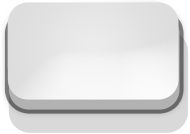
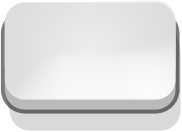
Improved key images. Added submit key

diff --git a/Resources/ui/windows/NewNumberWindow.js b/Resources/ui/windows/NewNumberWindow.js
@@ -72,7 +72,7 @@ function NewNumberWindow(parentWindow) {
 		//top += 50;
 		if ((i + 1) % 3 === 0) {
 			top += 63;
-			left = 15;
+			left = 16;
 		} else {
 			left += 100;
 		}
@@ -82,7 +82,7 @@ function NewNumberWindow(parentWindow) {
 	// self.add(numPadButton);
 		
 	//now put the 0 in
-	numPadButton = new NumPadButton(0, 16 + 97, top, self);
+	numPadButton = new NumPadButton(0, 116, top, self);
 	numPadButton.addEventListener('touchend', function(e) {
 		appendDigit(0);
 	});
@@ -90,10 +90,10 @@ function NewNumberWindow(parentWindow) {
 	
 	//Add Backspace button, next to the 0
 	var backspaceButton = Ti.UI.createButton({
-		width: 95,
-		height: 55,
+		width: 91,
+		height: 66,
 		top: top,
-		left: 16 + 97 + 96,
+		left: 16,
 		backgroundImage: 'images/bigback_button.png',
 		backgroundSelectedImage: 'images/bigback_button_sel.png',
 	});
@@ -103,27 +103,14 @@ function NewNumberWindow(parentWindow) {
 	
 	//Add Save button, but it at bottom of screen
 	var saveButton = Ti.UI.createButton({
-		height:55,
-		width:288,
-		bottom: 12,
-		backgroundImage: 'images/add_button.png',
+		width: 91,
+		height: 66,
+		top: top,
+		left: 216,
+		backgroundImage: 'images/phone_key_submit.png',
+		backgroundSelectedImage: 'images/phone_key_submit_down.png',
 	});
 	self.add(saveButton);
-	
-	//we use a label as we have better control over how it looks via the title of a button
-	var buttonTextLabel = Ti.UI.createLabel({
-		text: 'Done',
-		font: {fontSize:22, fontWeight: 'bold', fontFamily:'Helvetica Neue'},
-		textAlign: 'center',
-		shadowOffset :{x:0,y:2},
-		shadowColor: '#16950d',
-		color: '#fff',
-		width: saveButton.width,
-		zIndex: 2,
-		height: saveButton.height - 5,
-		touchEnabled: false,
-	});
-	saveButton.add(buttonTextLabel);
 	
 	//Listener for Save Button
 	saveButton.addEventListener('click', function() {
